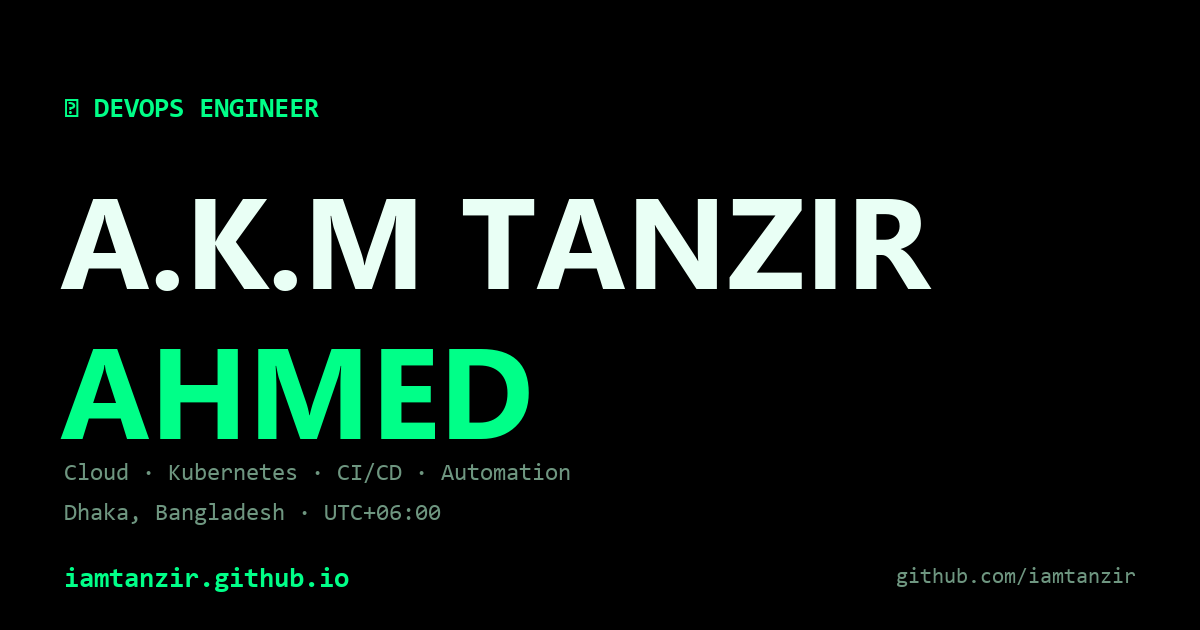
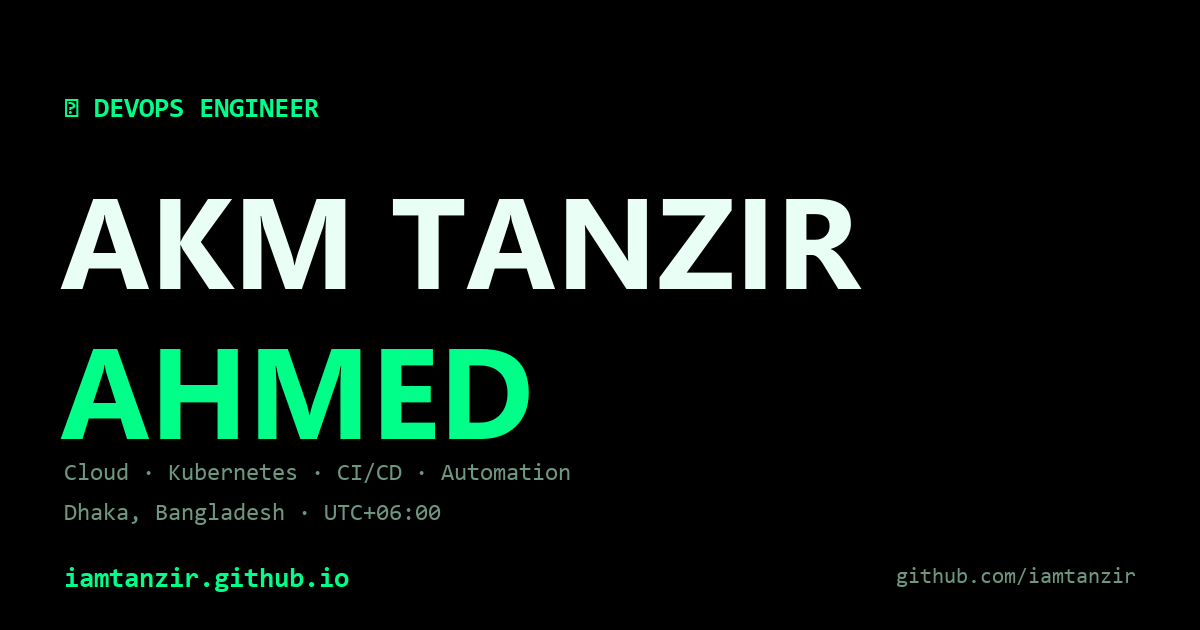
fix: name AKM Tanzir Ahmed

Changed region(s): [[0.1233, 0.3016, 0.7708, 0.4825]]

diff --git a/index.html b/index.html
@@ -3,33 +3,33 @@
 <head>
 <meta charset="utf-8">
 <meta name="viewport" content="width=device-width, initial-scale=1">
-<meta name="description" content="A.K.M Tanzir Ahmed — DevOps Engineer. Cloud, Kubernetes, CI/CD and automation. Dhaka, Bangladesh.">
-<meta name="author" content="A.K.M Tanzir Ahmed">
+<meta name="description" content="AKM Tanzir Ahmed — DevOps Engineer. Cloud, Kubernetes, CI/CD and automation. Dhaka, Bangladesh.">
+<meta name="author" content="AKM Tanzir Ahmed">
 <meta name="theme-color" content="#000000">
 <meta name="robots" content="index, follow, max-image-preview:large">
 <link rel="canonical" href="https://iamtanzir.github.io/">
-<title>A.K.M Tanzir Ahmed — DevOps Engineer</title>
+<title>AKM Tanzir Ahmed — DevOps Engineer</title>
 
 <!-- Open Graph -->
 <meta property="og:type" content="website">
 <meta property="og:url" content="https://iamtanzir.github.io/">
-<meta property="og:title" content="A.K.M Tanzir Ahmed — DevOps Engineer">
+<meta property="og:title" content="AKM Tanzir Ahmed — DevOps Engineer">
 <meta property="og:description" content="Cloud, Kubernetes, CI/CD and automation. Dhaka, Bangladesh.">
 <meta property="og:image" content="https://iamtanzir.github.io/og.png">
 <meta property="og:image:secure_url" content="https://iamtanzir.github.io/og.png">
 <meta property="og:image:type" content="image/png">
 <meta property="og:image:width" content="1200">
 <meta property="og:image:height" content="630">
-<meta property="og:image:alt" content="A.K.M Tanzir Ahmed — DevOps Engineer">
-<meta property="og:site_name" content="A.K.M Tanzir Ahmed">
+<meta property="og:image:alt" content="AKM Tanzir Ahmed — DevOps Engineer">
+<meta property="og:site_name" content="AKM Tanzir Ahmed">
 <meta property="og:locale" content="en_US">
 
 <!-- Twitter Card -->
 <meta name="twitter:card" content="summary_large_image">
-<meta name="twitter:title" content="A.K.M Tanzir Ahmed — DevOps Engineer">
+<meta name="twitter:title" content="AKM Tanzir Ahmed — DevOps Engineer">
 <meta name="twitter:description" content="Cloud, Kubernetes, CI/CD and automation. Dhaka, Bangladesh.">
 <meta name="twitter:image" content="https://iamtanzir.github.io/og.png">
-<meta name="twitter:image:alt" content="A.K.M Tanzir Ahmed — DevOps Engineer">
+<meta name="twitter:image:alt" content="AKM Tanzir Ahmed — DevOps Engineer">
 <meta name="twitter:creator" content="@tanzir786">
 <meta name="twitter:site" content="@tanzir786">
 
@@ -38,8 +38,8 @@
 {
   "@context": "https://schema.org",
   "@type": "Person",
-  "name": "A.K.M Tanzir Ahmed",
-  "givenName": "A.K.M",
+  "name": "AKM Tanzir Ahmed",
+  "givenName": "AKM",
   "familyName": "Ahmed",
   "jobTitle": "DevOps Engineer",
   "url": "https://iamtanzir.github.io/",
@@ -148,7 +148,7 @@
 
   <div class="hero">
     <div class="tag">DEVOPS ENGINEER</div>
-    <h1>A.K.M Tanzir<br><span class="accent">Ahmed</span></h1>
+    <h1>AKM Tanzir<br><span class="accent">Ahmed</span></h1>
     <p class="role">Cloud · Kubernetes · CI/CD · Automation</p>
     <div class="clock"><span id="dhaka-time">--:--:--</span><small>DHAKA · BST · UTC+06:00</small></div>
     <div class="cta">
@@ -188,7 +188,7 @@
 </main>
 
 <footer>
-  <div class="wrap">© <span id="year"></span> A.K.M Tanzir Ahmed · Dhaka, Bangladesh</div>
+  <div class="wrap">© <span id="year"></span> AKM Tanzir Ahmed · Dhaka, Bangladesh</div>
 </footer>
 
 <script>
